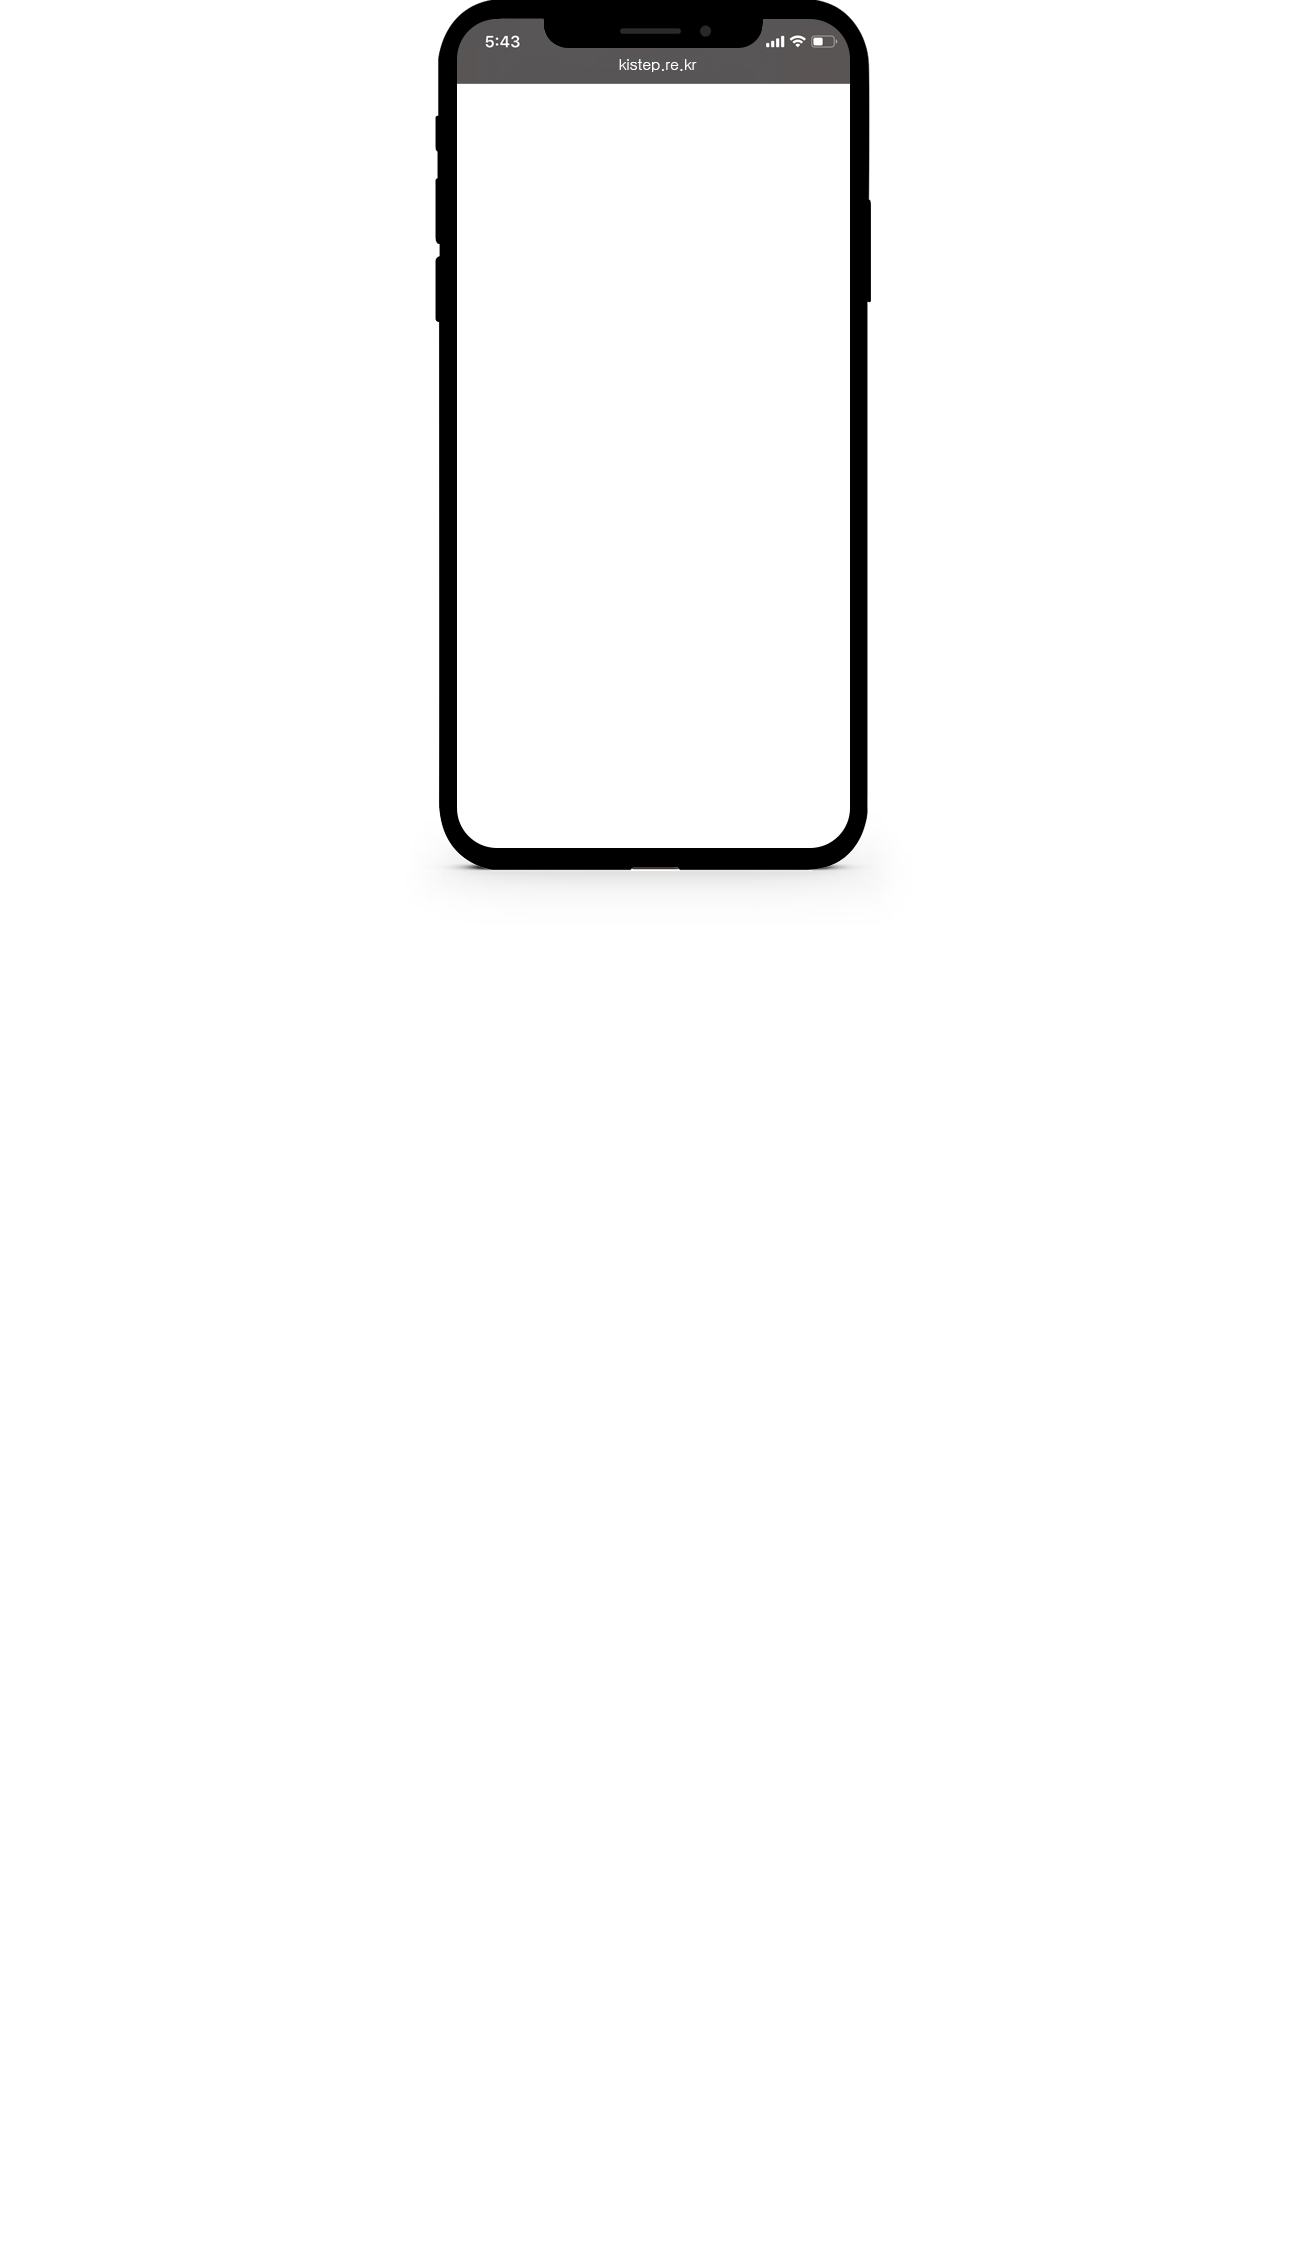
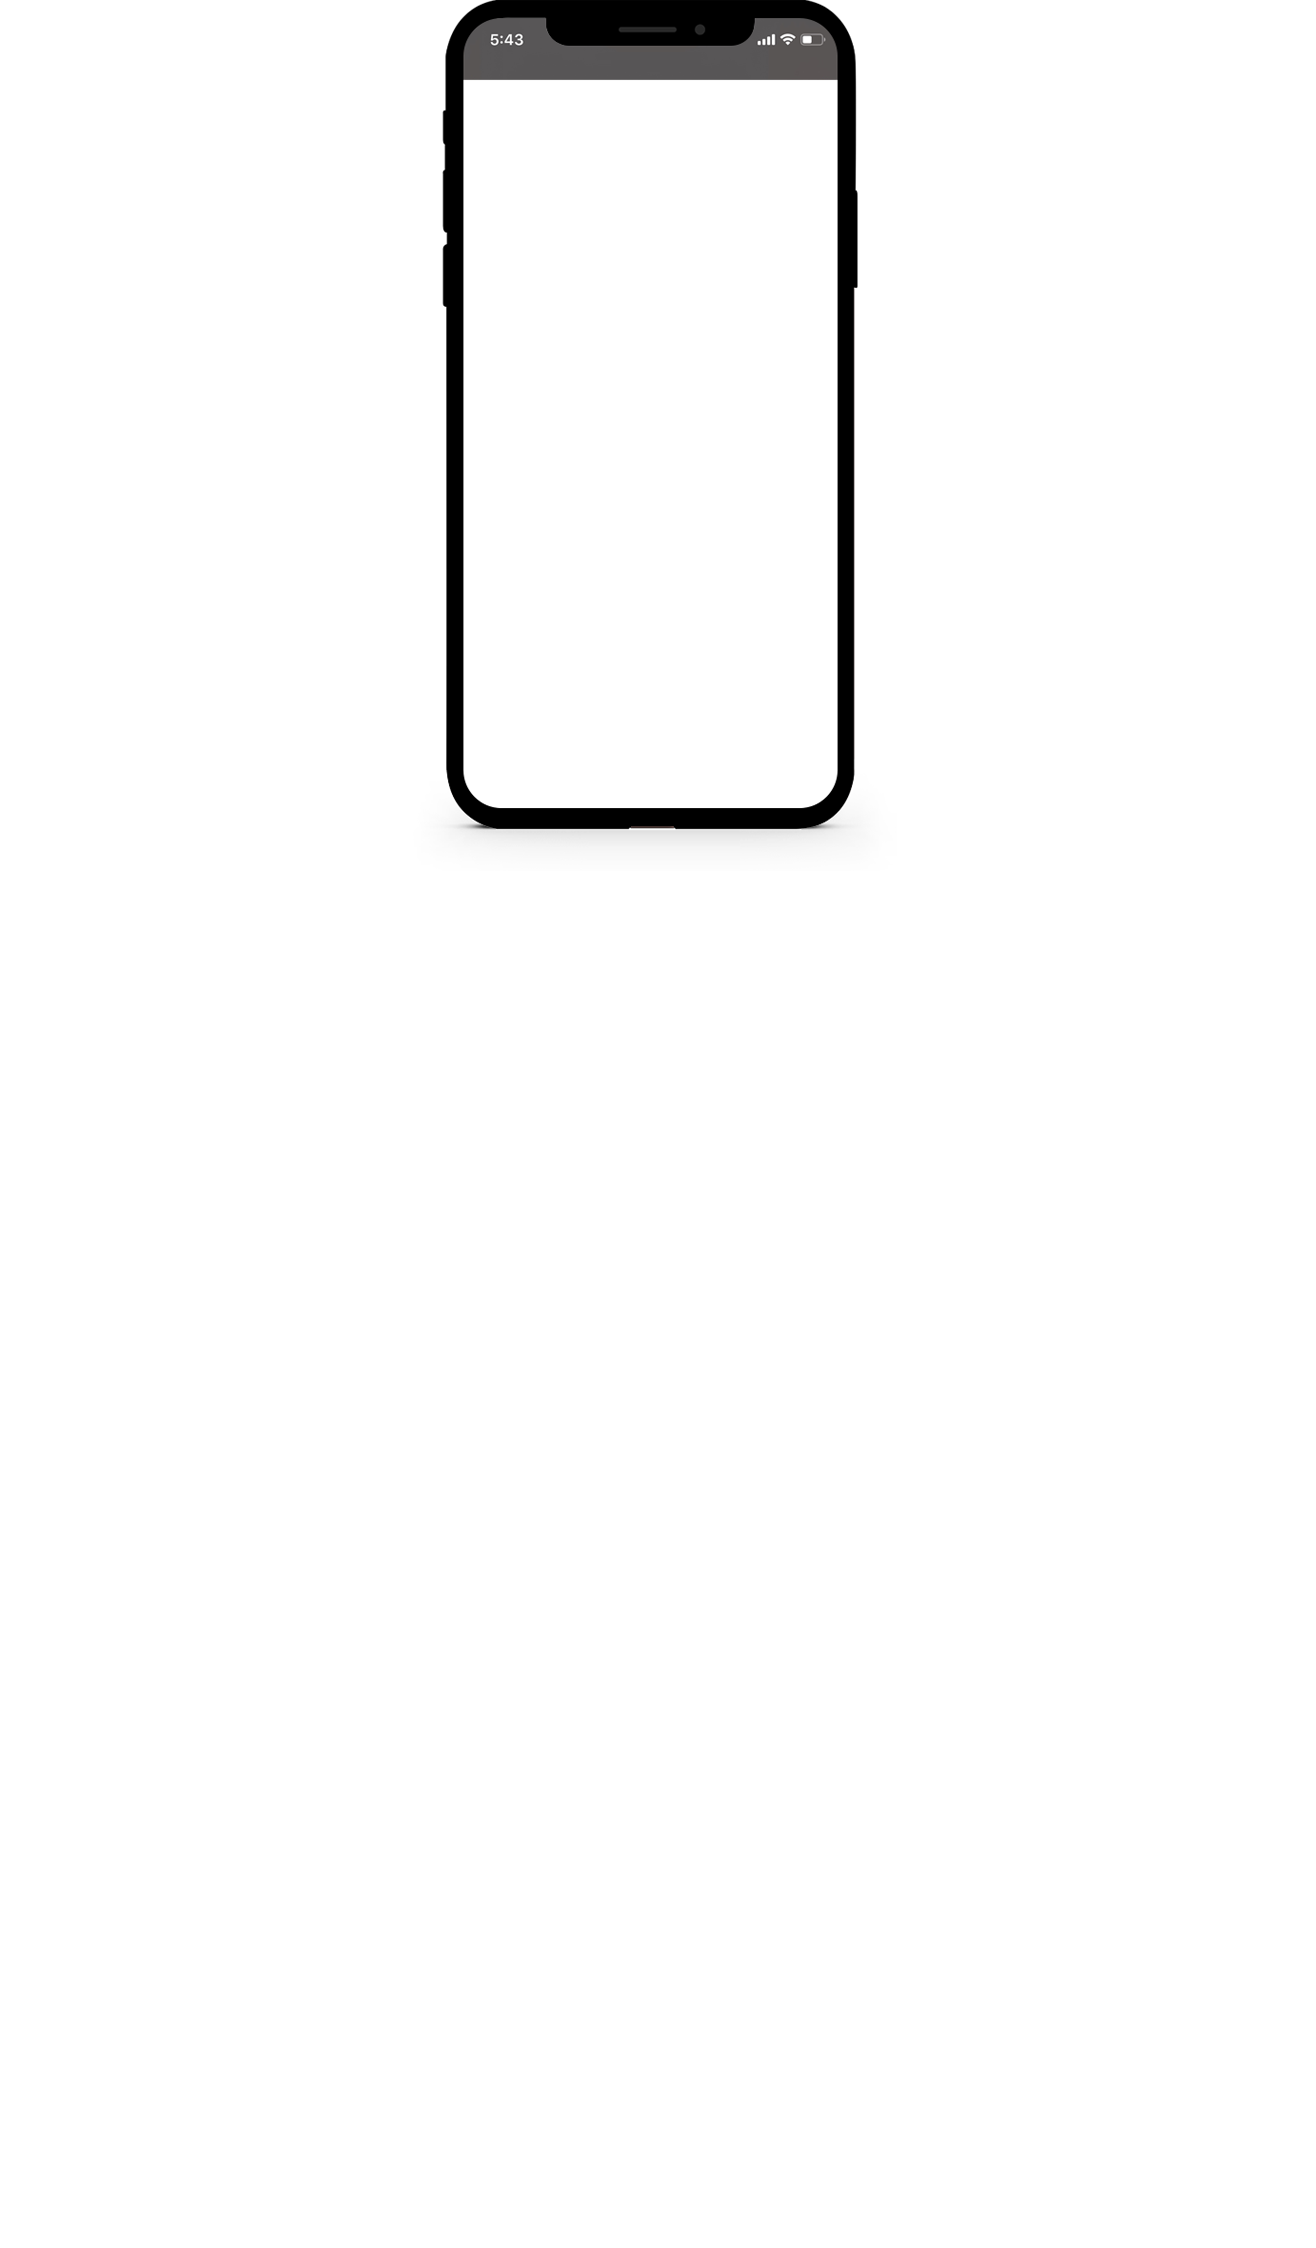
add
mobile add

Changed region(s): [[0.3116, 0.0, 0.6854, 0.4048], [0.4673, 0.0, 0.5296, 0.0311]]

diff --git a/a/main01_m.html b/a/main01_m.html
@@ -8,9 +8,9 @@
 <style>
 body { position:relative;margin:0; padding:0; }
 img {border:0; margin:0; padding:0;}
-div.layout {height:100%;  margin:0 auto; padding:0; text-align:center;}
-div.list {width:800px;  height:970px; margin:0 auto; text-align:center;background:url(https://jkrakisis.github.io/resources/images/pnone_screen.png) no-repeat center 0; overflow-y:auto;}
-.img {width:375px; height:666px;  margin-left:209px; margin-top:100px;overflow-y:auto;}
+div.layout {height:100%;  margin:50px auto 0; padding:0; text-align:center;}
+div.list {width:800px;  height:970px; margin:50px auto; text-align:center;background:url(https://jkrakisis.github.io/resources/images/pnone_screen2.png) no-repeat center 0; overflow-y:auto;}
+.img {width:375px; height:730px; margin-left:205px; margin-top:80px;overflow-y:auto; border-radius: 0 0 40px 40px;}
 .img p {width:375px;padding:0; margin:0;}
 .img p img {width:100%;}
 html { scrollbar-arrow-color: #efefef;
@@ -25,8 +25,8 @@ html { scrollbar-arrow-color: #efefef;
 ::-webkit-scrollbar {width: 6px; height: 6px;  }
 ::-webkit-scrollbar-button:start:decrement, 
 ::-webkit-scrollbar-button:end:increment {display: block; width: 12px;height: 12px; background: url() rgba(0,0,0,.05);}
-::-webkit-scrollbar-track {     background: rgba(0,0,0,.05); }
-::-webkit-scrollbar-thumb {  background: rgba(0,0,0,.1);  }
+::-webkit-scrollbar-track {background: rgba(0,0,0,.05); }
+::-webkit-scrollbar-thumb {background: rgba(0,0,0,.1);  }
 </style>
 </head>
 <body>
